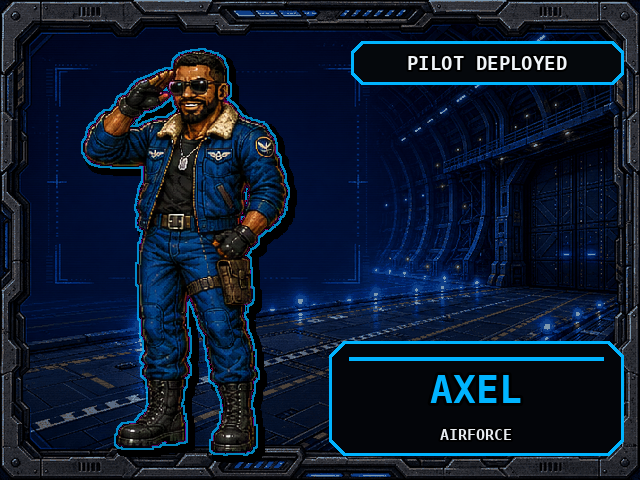
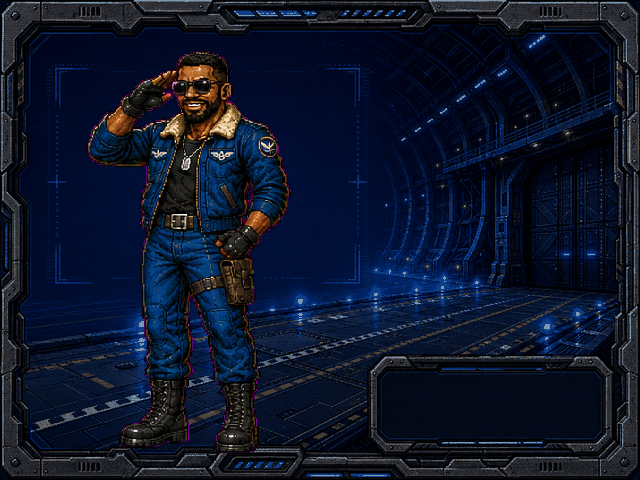
Draw the arcade plate's panels instead of baking them
Mike, on the Decker plate: "Use the text we have in-game for font, use the
dialogue box for the bottom, underline the top text dont make a faux text
window."

Diffing each plate's composite against background + pilot-layer shows both
panels live ONLY in the composite. The background has nothing at the top - just
clean tech wall - and at the bottom it has a PROPER AUTHORED HUD FRAME that the
composite's plainer rounded box was painted straight over. The pack's own
flattening covered better art than the box it drew.

So all nine plates are rebuilt as background + pilot layer, and the panels are
drawn: the top is BOF text with a rule under it and no box, the bottom is
dlg_window, the same authored panel the dialogue path uses. It mirrors
attDrawFit's CONTAIN transform so the panels track the plate at any viewport,
and both lines shrink to fit - JUGGERNAUT and PRINCESSES OF THE SKY both reach
the frame at nominal size.

Two things this also buys. The Decker/Freezer swap is now structurally
impossible: the name is not a picture any more, it comes from the pilot key.

And a warning worth keeping - the affiliations existed ONLY as baked pixels.
ORDER OF THE MATRIX, PRINCESSES OF THE SKY, BROTHERHOOD OF FURY, STRATEGIC
ORDNANCE, FURY FOUNDER are in no data anywhere; PILOTS.role is a different
dataset holding ability names like FROSTBITE. They were read off the plates and
transcribed into AINTRO_AFFIL before the panels were stripped, so that table is
[…]

Changed region(s): [[0.125, 0.0938, 0.4688, 0.9688], [0.5, 0.6875, 1.0, 0.9688], [0.5312, 0.0625, 1.0, 0.1875]]

diff --git a/assets/game.js b/assets/game.js
@@ -19735,6 +19735,75 @@ function attractDemoEnd(){
   }catch(e){}
 }
 
+/* ============================================================
+   THE ARCADE PLATE'S PANELS ARE DRAWN, NOT BAKED (drop 0809s)
+
+   Mike, looking at the Decker plate: "Use the text we have in-game for font, use the dialogue
+   box for the bottom, underline the top text dont make a faux text window."
+
+   The pack ships each plate as background + pilot-layer + a flattened composite, and it was the
+   COMPOSITE that carried both panels: a rounded faux box with PILOT DEPLOYED in a mono face, and
+   a second one with the name in a generic bold sans. The bottom one is the worse offence - it
+   was painted directly OVER a proper authored HUD frame that the background already had.
+
+   So the plates are rebuilt as background + pilot layer only, and the two panels are drawn here:
+   the top is BOF text with a rule under it and no box at all, the bottom is dlg_window, the same
+   authored panel the dialogue path uses.
+
+   Drawing them also makes the Decker/Freezer swap structurally impossible to reintroduce - the
+   name is no longer a picture, it comes from the pilot key.
+
+   The affiliations only ever existed as baked pixels, so they are transcribed here from the
+   plates before those panels were stripped. Panel rects are the measured union across all nine.
+   ============================================================ */
+const AINTRO_AFFIL = {
+  cole:'FURY FOUNDER', axel:'AIRFORCE', decker:'ORDER OF THE MATRIX',
+  falva:'PRINCESSES OF THE SKY', freezer:'AIRFORCE', juggernaut:'BROTHERHOOD OF FURY',
+  lizzie:'STRATEGIC ORDNANCE', maverick:'INDEPENDENT', yuri:'INDEPENDENT'
+};
+const AIN_TOP=[351,41,273,44];     // x,y,w,h of the old top panel, in 640x480 plate space
+const AIN_BOT=[325,338,302,120];   // and the bottom one, padded to cover the authored frame
+
+function drawAintroPanels(k, alpha){
+  const f=(typeof uiFontArt==='function')?uiFontArt():null;
+  if(!f || typeof stageText!=='function') return;
+  /* the plate is drawn CONTAIN-fit by attDrawFit, so mirror that transform exactly */
+  const s=Math.min(VW/640, VH/480), ox=(VW-640*s)/2, oy=(VH-480*s)/2;
+  const X=function(x){ return ox+x*s; }, Y=function(y){ return oy+y*s; }, S=function(v){ return v*s; };
+  const P=(typeof PILOTS!=='undefined')?PILOTS.find(function(p){ return p.key===k; }):null;
+  const tint=(P&&P.tint)||'#ffe082';
+  const a=clamp(alpha,0,1);
+  ctx.save(); ctx.globalAlpha=a;
+
+  /* TOP - text and a rule, no window */
+  {
+    const cx=X(AIN_TOP[0]+AIN_TOP[2]/2), cy=Y(AIN_TOP[1]+AIN_TOP[3]*0.46), h=S(19);
+    stageText(f,'PILOT DEPLOYED', cx, cy, h, '#e8eef6', 0.85, a, 0.11);
+    const w=(typeof stageWidth==='function')?stageWidth(f,'PILOT DEPLOYED',h,0.11):S(150);
+    ctx.strokeStyle=tint; ctx.globalAlpha=a*0.9; ctx.lineWidth=Math.max(1,S(2));
+    ctx.beginPath(); ctx.moveTo(cx-w/2, cy+h*0.82); ctx.lineTo(cx+w/2, cy+h*0.82); ctx.stroke();
+    ctx.globalAlpha=a;
+  }
+
+  /* BOTTOM - the authored dialogue window, name and affiliation inside it */
+  {
+    const dx=X(AIN_BOT[0]), dy=Y(AIN_BOT[1]), dw=S(AIN_BOT[2]), dh=S(AIN_BOT[3]);
+    if(typeof XART!=='undefined' && XART.rdy('dlg_window')) ctx.drawImage(XART.get('dlg_window'), dx, dy, dw, dh);
+    const name=String((P&&P.name)||k).toUpperCase();
+    const aff =AINTRO_AFFIL[k]||'';
+    /* shrink to fit rather than trusting the longest string to be short enough - JUGGERNAUT and
+       PRINCESSES OF THE SKY both reach the frame at the nominal size */
+    const inner=dw*0.82;
+    const fit=function(txt,H,sp){
+      if(typeof stageWidth!=='function') return H;
+      const w=stageWidth(f,txt,H,sp);
+      return (w>inner) ? H*(inner/w) : H;
+    };
+    stageText(f, name, dx+dw/2, dy+dh*0.40, fit(name,S(30),0.09), tint, 0.95, a, 0.09);
+    if(aff) stageText(f, aff, dx+dw/2, dy+dh*0.72, fit(aff,S(13),0.10), '#cfd6e0', 0.8, a, 0.10);
+  }
+  ctx.restore(); ctx.globalAlpha=1;
+}
 function drawAttract(dt){
   ctx.fillStyle='#000'; ctx.fillRect(0,0,VW,VH);
   /* any input, any time - the whole point of an attract mode */
@@ -19750,7 +19819,9 @@ function drawAttract(dt){
     const key='aintro_'+k;
     if(typeof XART==='undefined' || !XART.rdy(key)) return;   // rdy STARTS the load; keep asking
     attractT+=dt;
-    attDrawFit(XART.get(key), attFade(attractT,dur));
+    const _a=attFade(attractT,dur);
+    attDrawFit(XART.get(key), _a);
+    drawAintroPanels(k, _a);          // the panels are drawn now, not baked into the plate
   }
   else if(attractBeat===1){
     const key=(XART._src&&XART._src['pcard_'+k])?('pcard_'+k):('card_'+k);

diff --git a/docs/PASSOVER_0809s.md b/docs/PASSOVER_0809s.md
@@ -1,0 +1,50 @@
+# Passover 0809s — the arcade plate's panels are drawn, not baked
+
+Mike, looking at the Decker plate: *"Use the text we have in-game for font, use the dialogue box
+for the bottom, underline the top text dont make a faux text window."*
+
+## What was actually in the art
+
+The pack ships three files per pilot: `-arcade-background-640x480`, `-pilot-layer`, and a
+flattened `-arcade-intro-640x480` composite. Diffing the composite against `background + layer`
+shows both offending panels live **only in the composite**:
+
+| panel | background has | composite adds |
+|---|---|---|
+| top, x 351–623 y 41–84 | nothing — clean tech wall | a rounded faux box + PILOT DEPLOYED in a mono face |
+| bottom, x 329–623 y 341–455 | a **proper authored HUD frame**, empty | a plainer rounded box painted **over** it + the name in a generic bold sans |
+
+The bottom one is the worse offence: the pack's own flattening covered a nicer frame than the box
+it drew. Both panels sit at identical coordinates on all nine plates.
+
+## The fix
+
+All nine `aintro_*.png` are rebuilt as **background + pilot layer only**, and the panels are drawn
+at runtime by `drawAintroPanels(k, alpha)`:
+
+- **top** — `PILOT DEPLOYED` in the BOF face with a rule under it in the pilot's tint. No box.
+- **bottom** — `dlg_window`, the same authored panel the dialogue path uses, with the name in the
+  pilot's tint and the affiliation beneath it.
+
+It mirrors `attDrawFit`'s CONTAIN transform exactly so the panels track the plate at any viewport.
+
+Both lines **shrink to fit**: `JUGGERNAUT` and `PRINCESSES OF THE SKY` both reach the frame at the
+nominal size, and trusting the longest string to be short enough is how you get text kissing a
+border on one pilot in nine.
+
+## Two things this also bought
+
+**The Decker/Freezer swap is now structurally impossible.** The name is no longer a picture — it
+comes from the pilot key through `PILOTS`. There is nothing left to mis-file.
+
+**⚠ The affiliations existed only as baked pixels.** `ORDER OF THE MATRIX`, `PRINCESSES OF THE
+SKY`, `BROTHERHOOD OF FURY`, `STRATEGIC ORDNANCE`, `FURY FOUNDER` — none of these are in `PILOTS`
+(whose `role` field holds ability names like `FROSTBITE`, a different dataset entirely). They were
+read off the plates and transcribed into `AINTRO_AFFIL` before the panels were stripped. **Do not
+regenerate the plates from the pack without carrying that table forward** — the source for those
+strings is now the table, not the art.
+
+## Verified
+
+Decker (blond, gold tint, ORDER OF THE MATRIX), Juggernaut and Falva all captured from the real
+game: BOF face throughout, underlined top with no box, `dlg_window` at the bottom, no overflow.

diff --git a/CLAUDE.md b/CLAUDE.md
@@ -204,9 +204,19 @@ its own, which is why the demo runs fine under `GS.ATTRACT`.
 
 ⚠ **The arcade intro pack had Decker and Freezer swapped** — the pack's own folder names, not the
 registration, which was byte-identical to source. Rule 1 one level further out: distrust the
-*source directory* names too. Fixed by recompositing background + the right pilot layer at (78,42)
-+ the authored panel art from `x>=300`; below 300 you drag the old body's rim glow along as a ghost
-silhouette. The other seven check out against `port_*_idle`.
+*source directory* names too. The other seven check out against `port_*_idle`.
+
+**The arcade plates are rebuilt as `background + pilot-layer` and their panels are DRAWN**
+(`drawAintroPanels`). The pack's flattened composite carried both panels — a faux rounded box with
+PILOT DEPLOYED in a mono face, and another with the name in a generic sans — and the bottom one was
+painted directly over a proper authored HUD frame the background already had. Now the top is BOF
+text with a rule under it and no box, and the bottom is `dlg_window`, per Mike. Both lines
+shrink-to-fit; JUGGERNAUT and PRINCESSES OF THE SKY both reach the frame at nominal size.
+
+Drawing the name from the pilot key makes the Decker/Freezer swap **structurally impossible** to
+reintroduce. The affiliations ("ORDER OF THE MATRIX", "PRINCESSES OF THE SKY" …) only ever existed
+as baked pixels — they are transcribed into `AINTRO_AFFIL` and exist nowhere else, so do not
+regenerate the plates from the pack without carrying that table forward.
 
 `attractIdleTick` is defined and **never called** — the 12-second idle trigger is dead code. The Fury HQ scenes now have a state to run in
 (`GS.CUTSCENE`): `HQ_SCENES` carries all eight ensemble scenes from ColeForge's own cutscene bible
